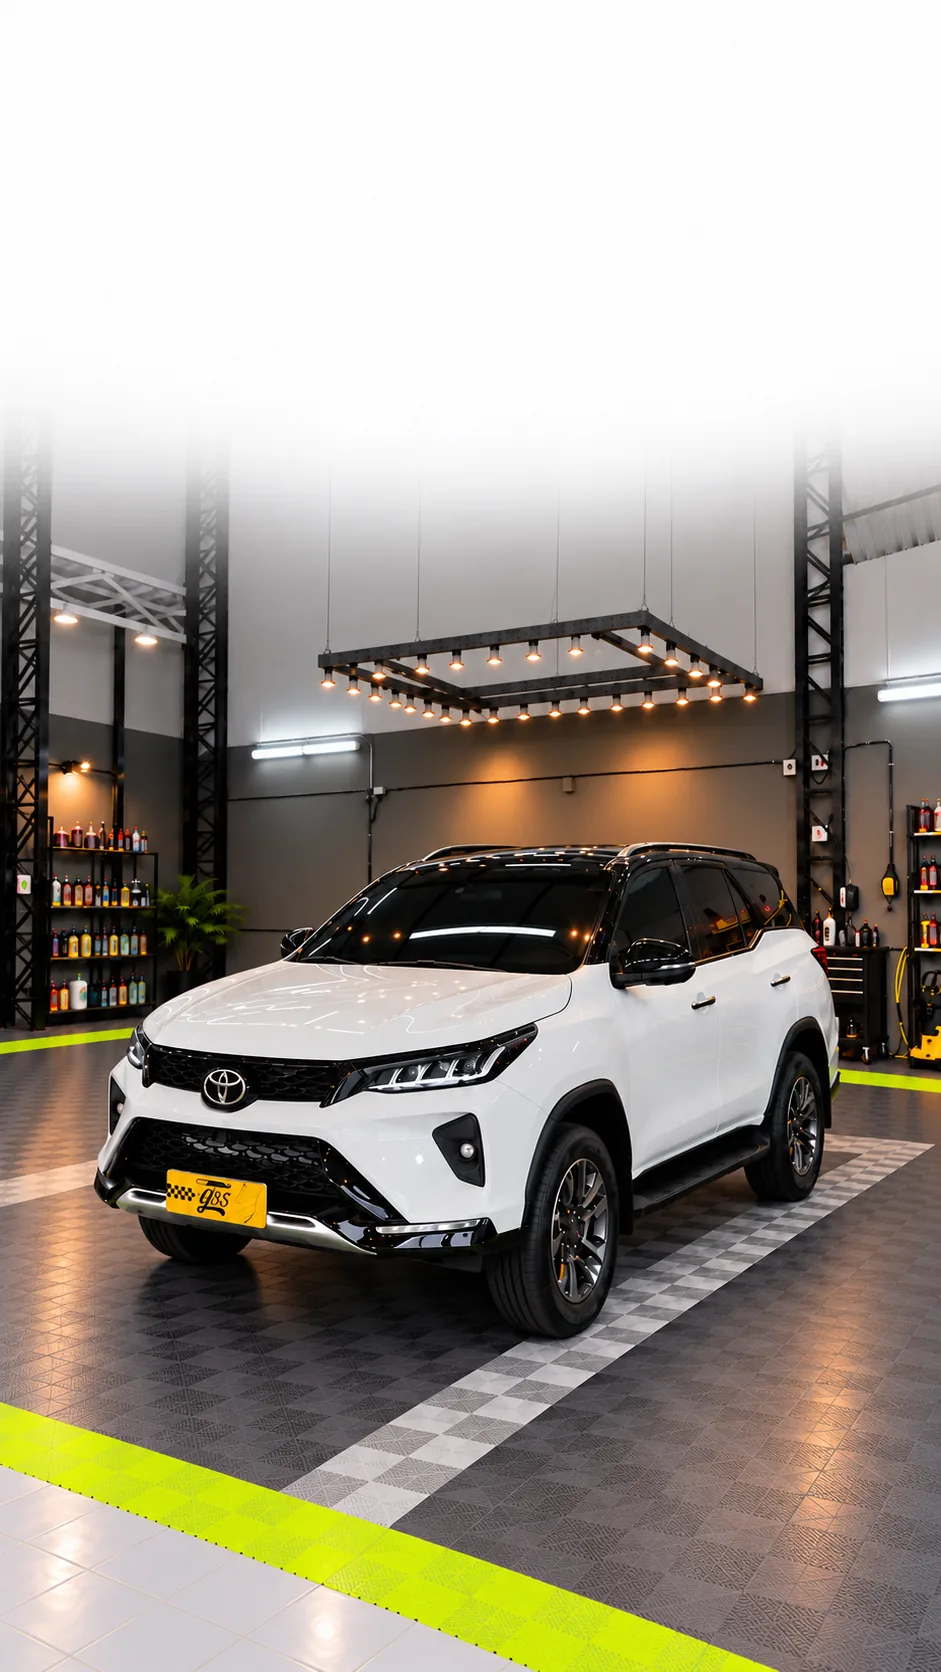
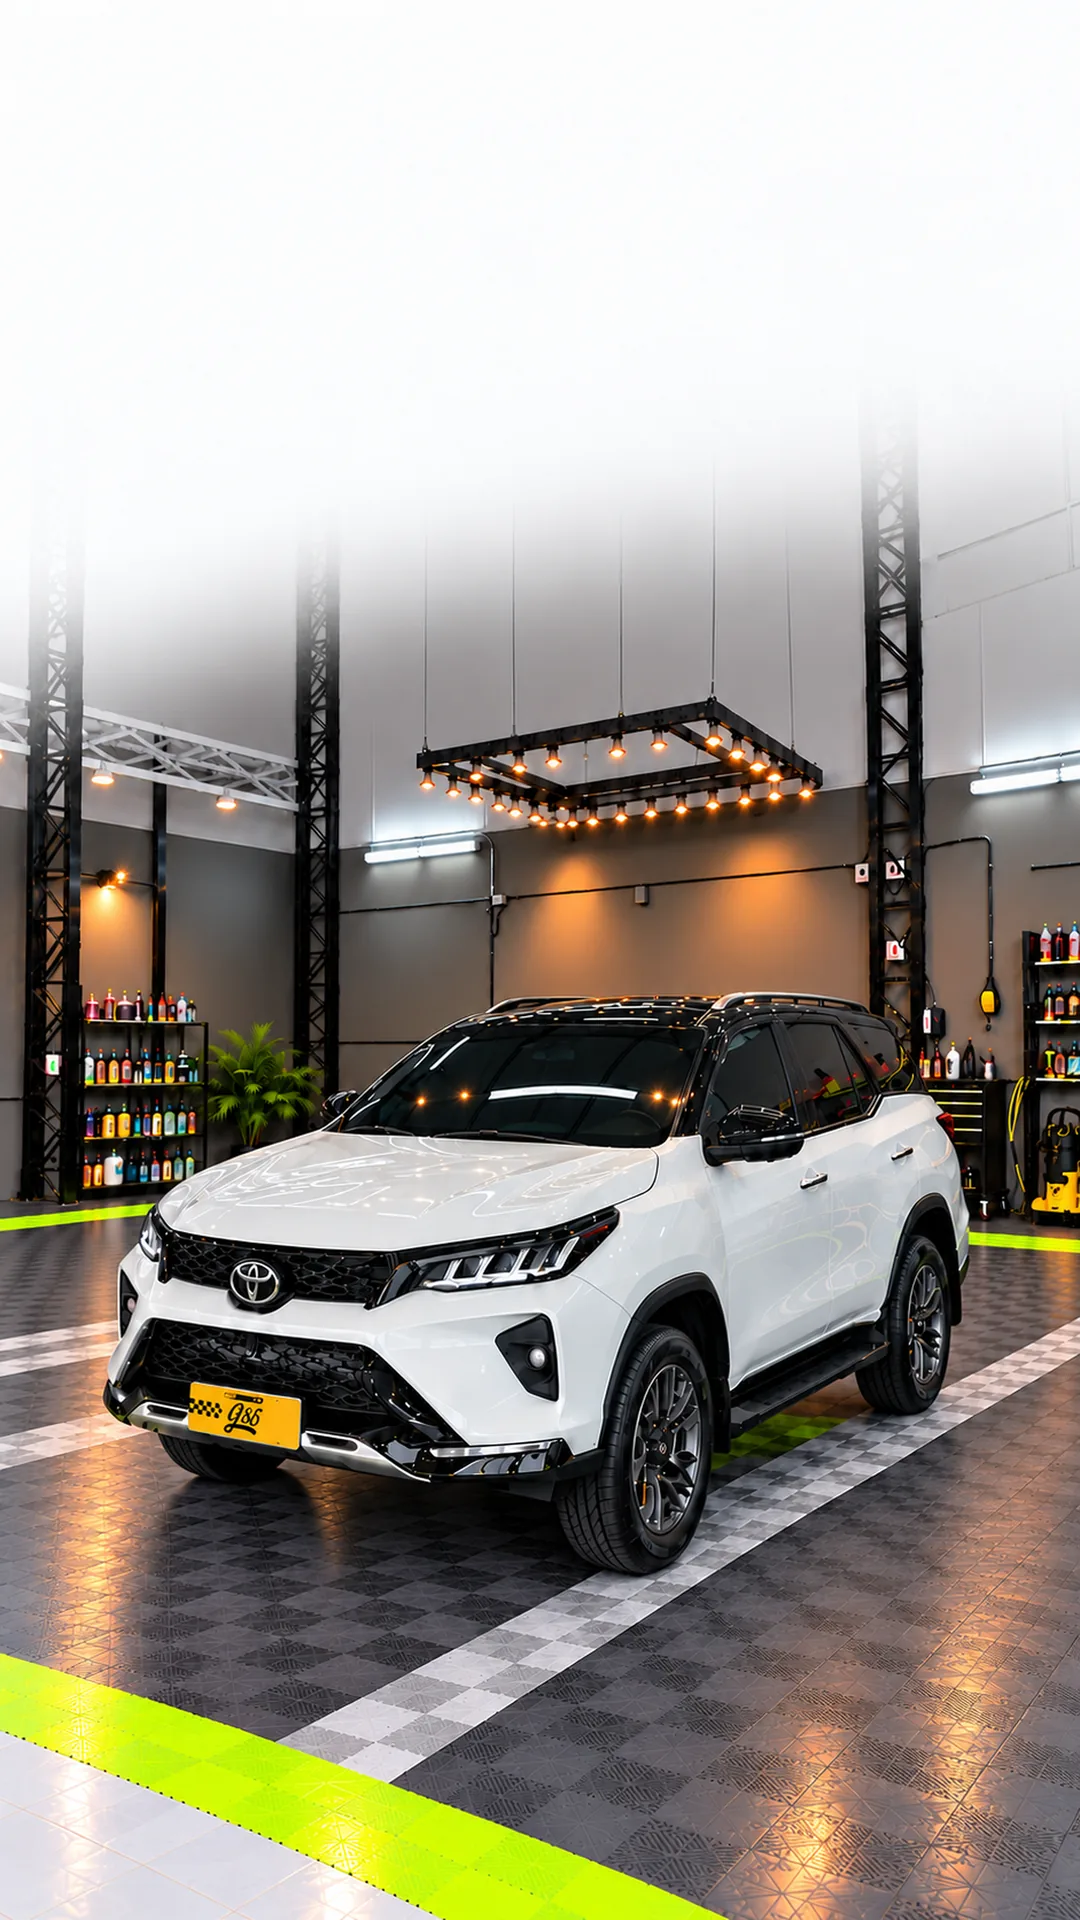
Hero tablet e celular: novas imagens de fundo em WebP
Substitui os fundos da hero no tablet (3:4) e no celular (9:16) pelas
imagens enviadas no main, redimensionadas para 1536x2048 e 1080x1920
e convertidas para WebP. Originais PNG movidos para assets/hero/png.
Referências com ?v=3 para não usar a versão em cache.

Claude-Session: https://claude.ai/code/session_01V49PeJdfV3ykhn7DuoqmoA

diff --git a/index.html b/index.html
@@ -697,8 +697,8 @@ footer{background:#000;border-top:1px solid var(--line);padding:30px 0}
 
   <!-- fundo: um WebP por dispositivo (assets/hero/webp; originais em assets/hero/png) -->
   <picture class="hero__bg">
-    <source media="(max-width:640px)" srcset="assets/hero/webp/hero-mobile-9x16.webp?v=2">
-    <source media="(max-width:1100px)" srcset="assets/hero/webp/hero-tablet-ipad-3x4.webp?v=2">
+    <source media="(max-width:640px)" srcset="assets/hero/webp/hero-mobile-9x16.webp?v=3">
+    <source media="(max-width:1100px)" srcset="assets/hero/webp/hero-tablet-ipad-3x4.webp?v=3">
     <img src="assets/hero/webp/hero-desktop-16x9.webp?v=4" alt="Veículo no box de detalhamento do Studio G85" fetchpriority="high" decoding="async">
   </picture>
   <div class="hero__shade" aria-hidden="true"></div>
